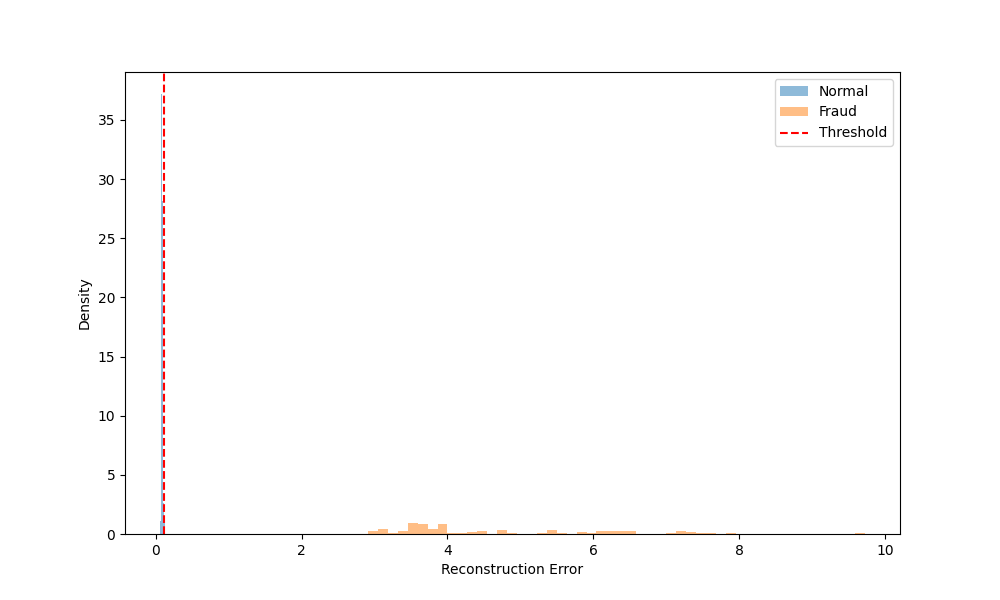
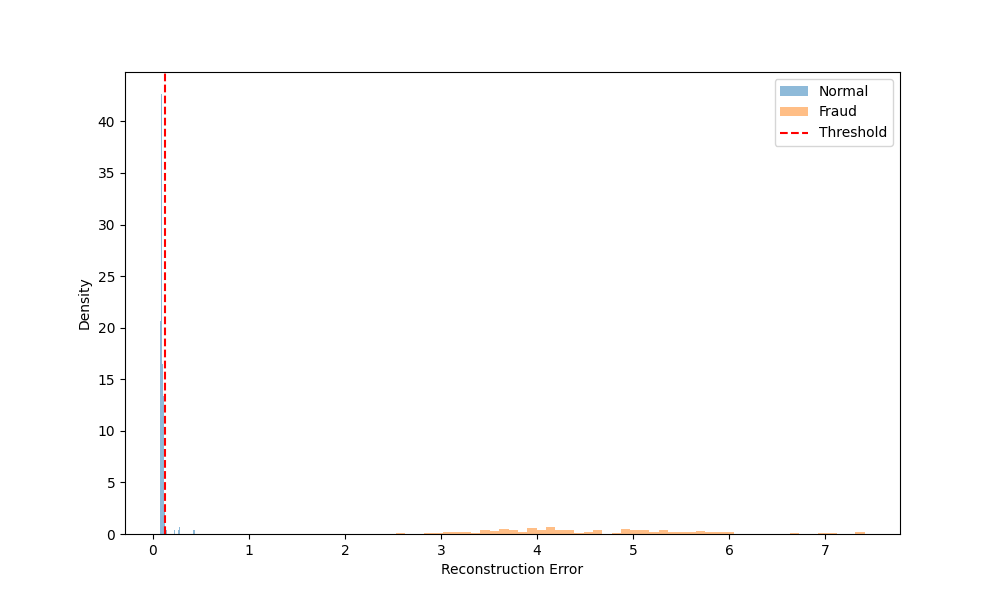
Refactored to add merchants with multiple patterns

diff --git a/data_generation/test_generated_data.py b/data_generation/test_generated_data.py
@@ -20,7 +20,7 @@ class TestDataValidator:
 class TestNormalMerchants:
     @pytest.fixture
     def validator(self):
-        return TestDataValidator('data/merchants_20241126.csv', 'data/transactions_20241126.csv')
+        return TestDataValidator('data/merchants_20241127.csv', 'data/transactions_20241127.csv')
 
     def test_business_hours_distribution(self, validator):
         """Test if normal merchants operate primarily during business hours"""
@@ -79,7 +79,7 @@ class TestNormalMerchants:
 class TestFraudPatterns:
     @pytest.fixture
     def validator(self):
-        return TestDataValidator('data/merchants_20241126.csv', 'data/transactions_20241126.csv')
+        return TestDataValidator('data/merchants_20241127.csv', 'data/transactions_20241127.csv')
 
     def test_late_night_pattern(self, validator):
         """Test characteristics of late night pattern"""
@@ -93,7 +93,7 @@ class TestFraudPatterns:
             
             # Check if pattern exists for 2-3 weeks
             pattern_days = night_txns['timestamp'].dt.date.nunique()
-            assert 14 <= pattern_days <= 21, f"Late night pattern duration incorrect for merchant {merchant_id}"
+            assert 14 <= pattern_days, f"Late night pattern duration incorrect for merchant {merchant_id}"
             
             # Check if night transactions have higher amounts
             night_amounts = night_txns['amount']
@@ -128,10 +128,47 @@ class TestFraudPatterns:
             top_customers_share = customer_txns.nlargest(10).sum() / len(txns)
             assert top_customers_share >= 0.5, f"Insufficient concentration for merchant {merchant_id}"
 
+    def test_multiple_patterns(self, validator):
+        """Test merchants can have multiple fraud patterns"""
+        pattern_flags = ['velocity_flag', 'time_flag', 'amount_flag']
+        
+        # Get merchants with multiple patterns
+        multi_pattern_merchants = validator.transactions_df.groupby('merchant_id').agg({
+            flag: 'any' for flag in pattern_flags
+        })
+        multi_pattern_merchants = multi_pattern_merchants[
+            multi_pattern_merchants.sum(axis=1) > 1
+        ]
+        
+        assert len(multi_pattern_merchants) > 0, "No merchants with multiple patterns found"
+        
+        # Verify each pattern is valid
+        for merchant_id in multi_pattern_merchants.index:
+            merchant_txns = validator.get_merchant_transactions(merchant_id)
+            patterns = multi_pattern_merchants.loc[merchant_id]
+            
+            if patterns['velocity_flag'] and patterns['time_flag']:
+                # Create temporary validator with merchant transactions
+                night_txns = merchant_txns[merchant_txns['timestamp'].dt.hour.isin([23, 0, 1, 2, 3, 4])]
+                
+                # Check velocity pattern
+                txns_by_date = merchant_txns.groupby(merchant_txns['timestamp'].dt.date).size()
+                spike_days = txns_by_date[txns_by_date > txns_by_date.median() * 3].count()
+                assert 2 <= spike_days, f"Incorrect spike duration for merchant {merchant_id}"
+                
+                # Check night pattern
+                pattern_days = night_txns['timestamp'].dt.date.nunique()
+                assert 14 <= pattern_days, f"Late night pattern duration incorrect for merchant {merchant_id}"
+                
+                # Check if night transactions have higher amounts
+                night_amounts = night_txns['amount']
+                day_amounts = merchant_txns[~merchant_txns.index.isin(night_txns.index)]['amount']
+                assert night_amounts.mean() > day_amounts.mean(), "Night transactions should have higher amounts"
+
 class TestDatasetBalance:
     @pytest.fixture
     def validator(self):
-        return TestDataValidator('data/merchants_20241126.csv', 'data/transactions_20241126.csv')
+        return TestDataValidator('data/merchants_20241127.csv', 'data/transactions_20241127.csv')
 
     def test_fraud_ratio(self, validator):
         """Test if fraud percentage matches expected ratio"""

diff --git a/pattern.py b/pattern.py
@@ -84,9 +84,9 @@ class FraudPatternDetector:
         results = pd.DataFrame({
             'reconstruction_error': reconstruction_errors,
             'model_flag': reconstruction_errors > self.threshold,
-            'velocity_flag': pattern_scores['velocity_score'] > pattern_scores['velocity_score'].quantile(0.95),
-            'night_flag': pattern_scores['night_score'] > pattern_scores['night_score'].quantile(0.95),
-            'concentration_flag': pattern_scores['concentration_score'] > pattern_scores['concentration_score'].quantile(0.95)
+            'velocity_flag': pattern_scores['velocity_score'] > pattern_scores['velocity_score'].quantile(0.90),
+            'night_flag': pattern_scores['night_score'] > pattern_scores['night_score'].quantile(0.90),
+            'concentration_flag': pattern_scores['concentration_score'] > pattern_scores['concentration_score'].quantile(0.90)
         }, index=features_df.index)
         
         results = pd.concat([results, pattern_scores], axis=1)
@@ -125,6 +125,23 @@ class FraudPatternDetector:
         plt.title('Pattern Score Correlations')
         plt.savefig('images/pattern_correlations.png')
         plt.close()
+    
+    def analyze_pattern_combinations(self, results: pd.DataFrame) -> pd.DataFrame:
+        """Analyze combinations of fraud patterns"""
+        pattern_flags = results[['velocity_flag', 'night_flag', 'concentration_flag']]
+        
+        # Get pattern combinations
+        pattern_combinations = pattern_flags.apply(
+            lambda row: '+'.join([
+                pattern.split('_')[0] for pattern, value in row.items() if value
+            ]), axis=1
+        )
+        
+        # Add combination analysis to results
+        results['pattern_combination'] = pattern_combinations
+        results['pattern_count'] = pattern_flags.sum(axis=1)
+        
+        return results
 
 def main():
     # Load features and detect patterns
@@ -134,6 +151,9 @@ def main():
     
     detector = FraudPatternDetector()
     results = detector.detect_patterns(features_df)
+    
+    # Analyze pattern combinations before accessing them
+    results = detector.analyze_pattern_combinations(results)
     
     # Save results
     results.to_csv('data/pattern_detection_results.csv')
@@ -154,6 +174,13 @@ def main():
     
     print(f"\nMerchants with any pattern: {merchants_with_patterns:.2%}")
     print(f"Merchants with multiple patterns: {multiple_patterns:.2%}")
+    
+    # Pattern combination analysis
+    combination_counts = results['pattern_combination'].value_counts()
+    print("\nPattern Combinations:")
+    for combo, count in combination_counts.items():
+        if combo:  # Skip empty combinations
+            print(f"{combo}: {count/len(results):.2%}")
 
 if __name__ == "__main__":
     main()

diff --git a/data_generation/generate.py b/data_generation/generate.py
@@ -334,7 +334,8 @@ def generate_fraudulent_transactions(
 def generate_dataset(
     merchant_count: int,
     fraud_percentage: float,
-    patterns: List[str]
+    patterns: List[str],
+    max_patterns_per_merchant: int = 2
 ) -> Tuple[List[dict], List[dict]]:
     """Generate a dataset with merchant profiles and transactions"""
     merchants = generate_merchant_base(merchant_count)    
@@ -345,11 +346,19 @@ def generate_dataset(
 
     for merchant in merchants:
         if merchant in fraud_merchants:
-            pattern = random.choice(patterns)
-            txns = generate_fraudulent_transactions(merchant, pattern)
+            # Randomly select 1 to max_patterns_per_merchant patterns
+            num_patterns = random.randint(1, max_patterns_per_merchant)
+            selected_patterns = random.sample(patterns, num_patterns)
+            merchant_txns = []
+            for pattern in selected_patterns:
+                txns = generate_fraudulent_transactions(merchant, pattern)
+                merchant_txns.extend(txns)
+            # Sort transactions by timestamp
+            merchant_txns.sort(key=lambda x: x['timestamp'])
+            all_transactions.extend(merchant_txns)
         else:
             txns = generate_normal_transactions(merchant["merchant_id"], 30, (50, 100), (100, 500))
-        all_transactions.extend(txns)
+            all_transactions.extend(txns)
     
     return merchants, all_transactions
 
@@ -359,6 +368,7 @@ def main():
     MERCHANT_COUNT = 500
     FRAUD_PERCENTAGE = 0.2  # 15% of merchants will be fraudulent
     PATTERNS = ["late_night", "high_velocity", "concentration"]
+    MAX_PATTERNS_PER_MERCHANT = 2
     OUTPUT_DIR = "data"
 
     print(f"Generating dataset with {MERCHANT_COUNT} merchants ({FRAUD_PERCENTAGE*100}% fraudulent)...")
@@ -367,7 +377,8 @@ def main():
     merchants, transactions = generate_dataset(
         merchant_count=MERCHANT_COUNT,
         fraud_percentage=FRAUD_PERCENTAGE,
-        patterns=PATTERNS
+        patterns=PATTERNS,
+        max_patterns_per_merchant=MAX_PATTERNS_PER_MERCHANT
     )
     # Convert to pandas DataFrames
     merchants_df = pd.DataFrame(merchants)
